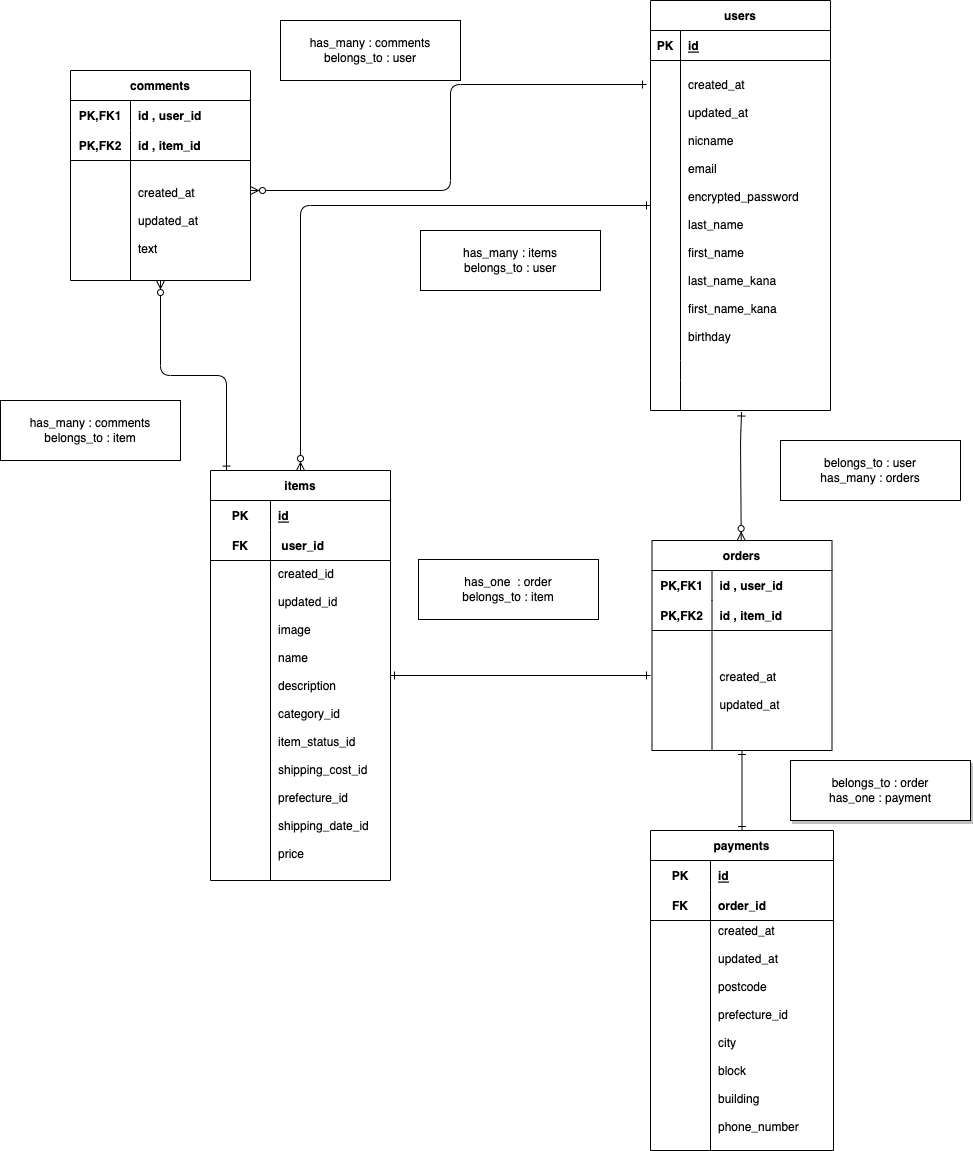
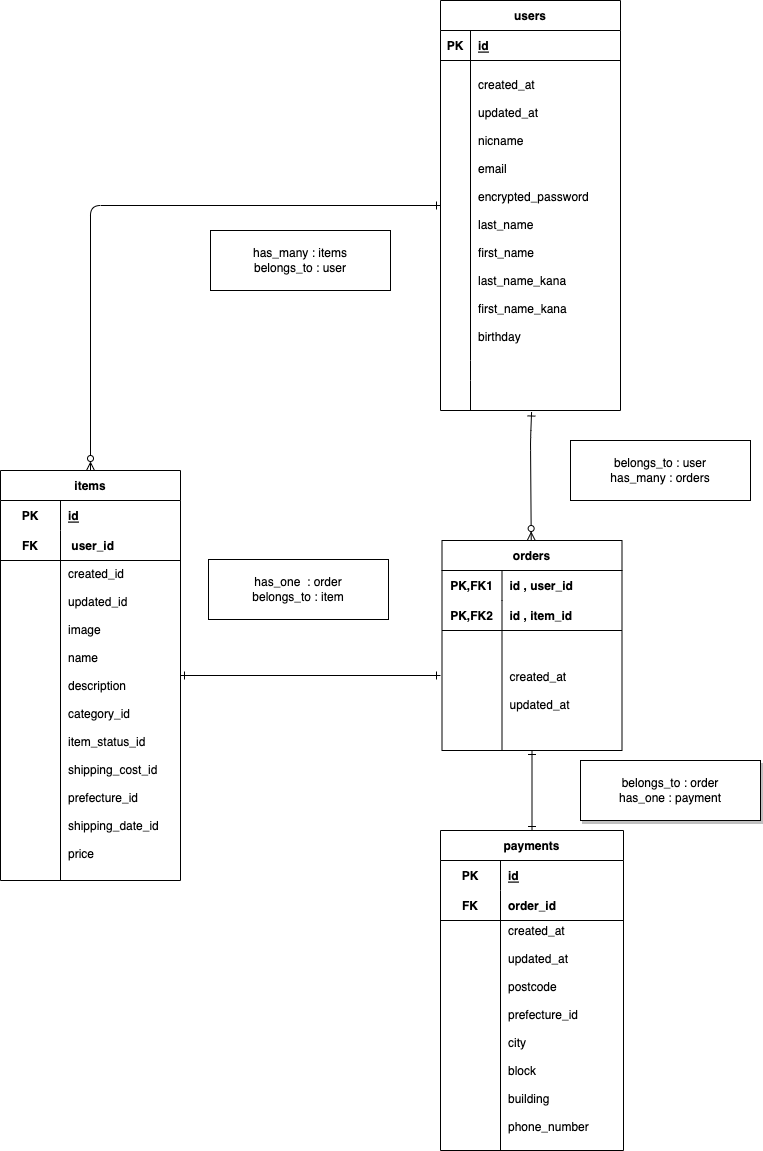
ER図とデーターベースの修正

diff --git a/README.md b/README.md
@@ -9,7 +9,7 @@
 | first_name         | string | null: false 
 | last_name_kana     | string | null: false 
 | first_name_kana    | string | null: false 
-| birthday           | string | null: false 
+| birthday_date      | string | null: false 
 
 
 
@@ -23,7 +23,7 @@
 
 | Column             | Type   | Options     
 | ------------------ | ------ | ----------- 
-| user               | references | null: false foreign_key:true
+| user               | references | null: false, foreign_key:true
 | name               | string | null: false 
 | description        | text   | null: false 
 | category_id        | integer| null: false 
@@ -51,13 +51,13 @@
 
 - belongs_to :item
 - belongs_to :user
-- belongs_to :payment
+- has_one :payment
 
 ## payments テーブル
 
 | Column             | Type   | Options     
 | ------------------ | ------ | ----------- 
-| orders             |references | null: false foreign_key:true
+| order              |references | null: false, foreign_key:true
 | postcode           | string | null: false 
 | prefecture_id      | integer| null: false 
 | city               | string | null: false 
@@ -70,17 +70,4 @@
 
 - belongs_to :order
 
-## comments テーブル
 
-| Column         | Type      | Options     
-| ---------------| ----------| ----------- 
-| user           |references | null: false foreign_key:true
-| item           |references | null: false foreign_key:true
-| text           |text       | null: false 
-
-
-
-### Association
-
-- belongs_to :user
-- belongs_to :item
